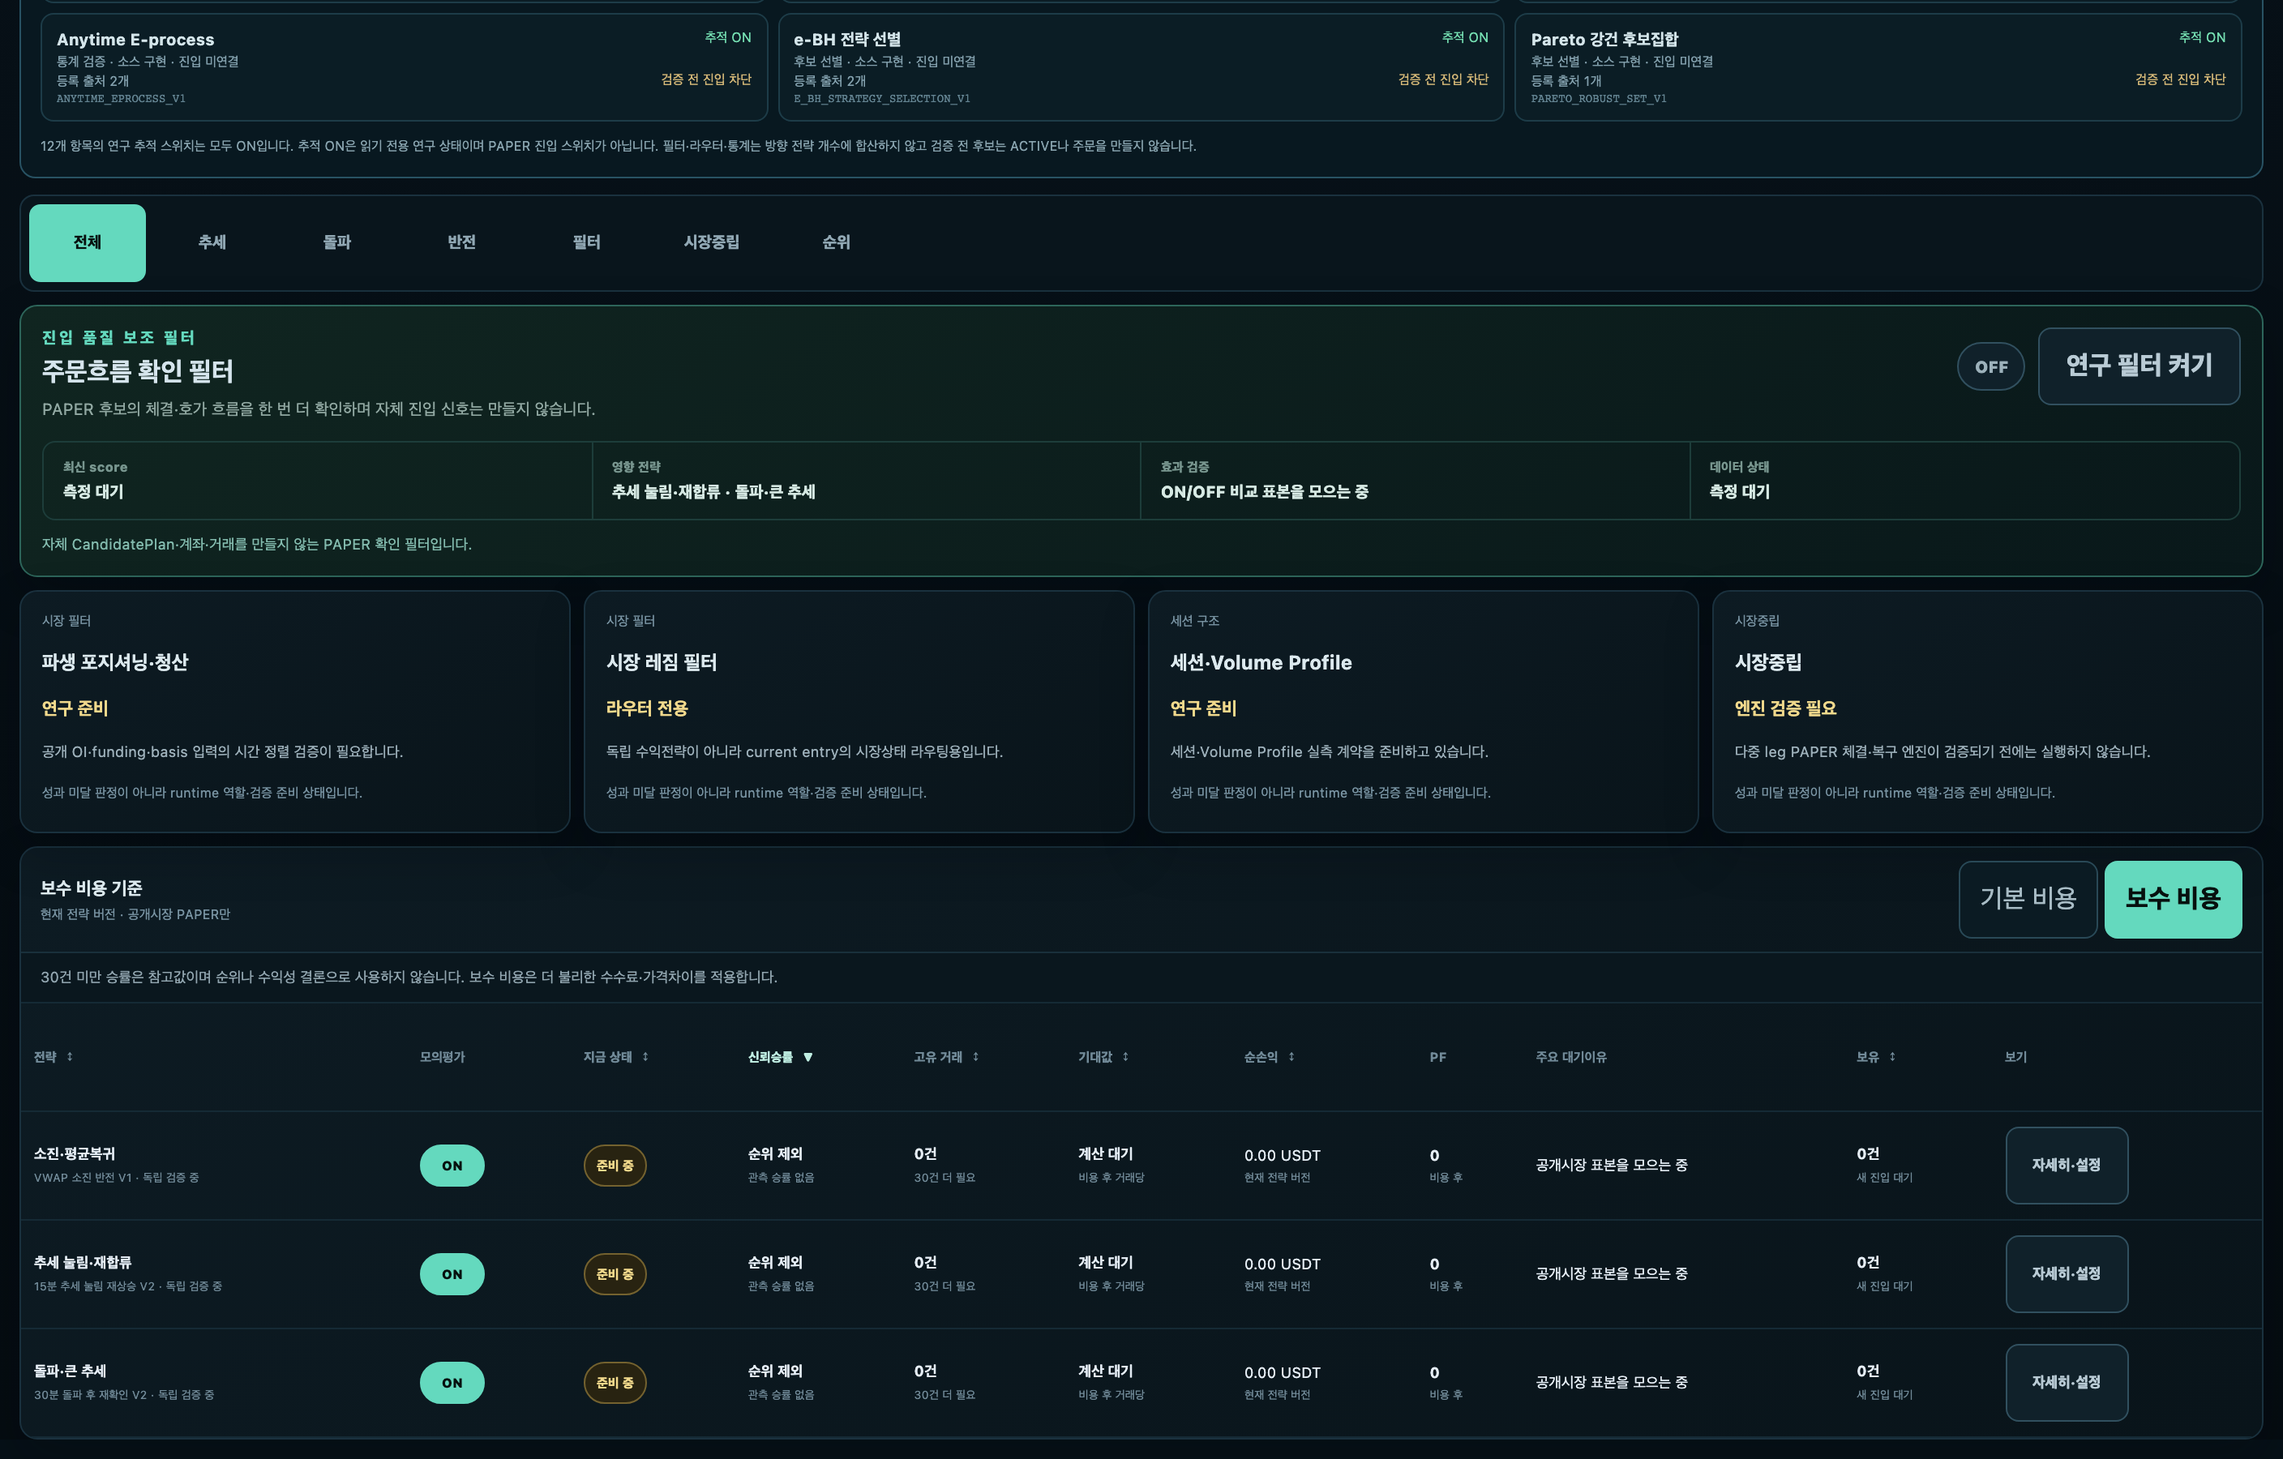
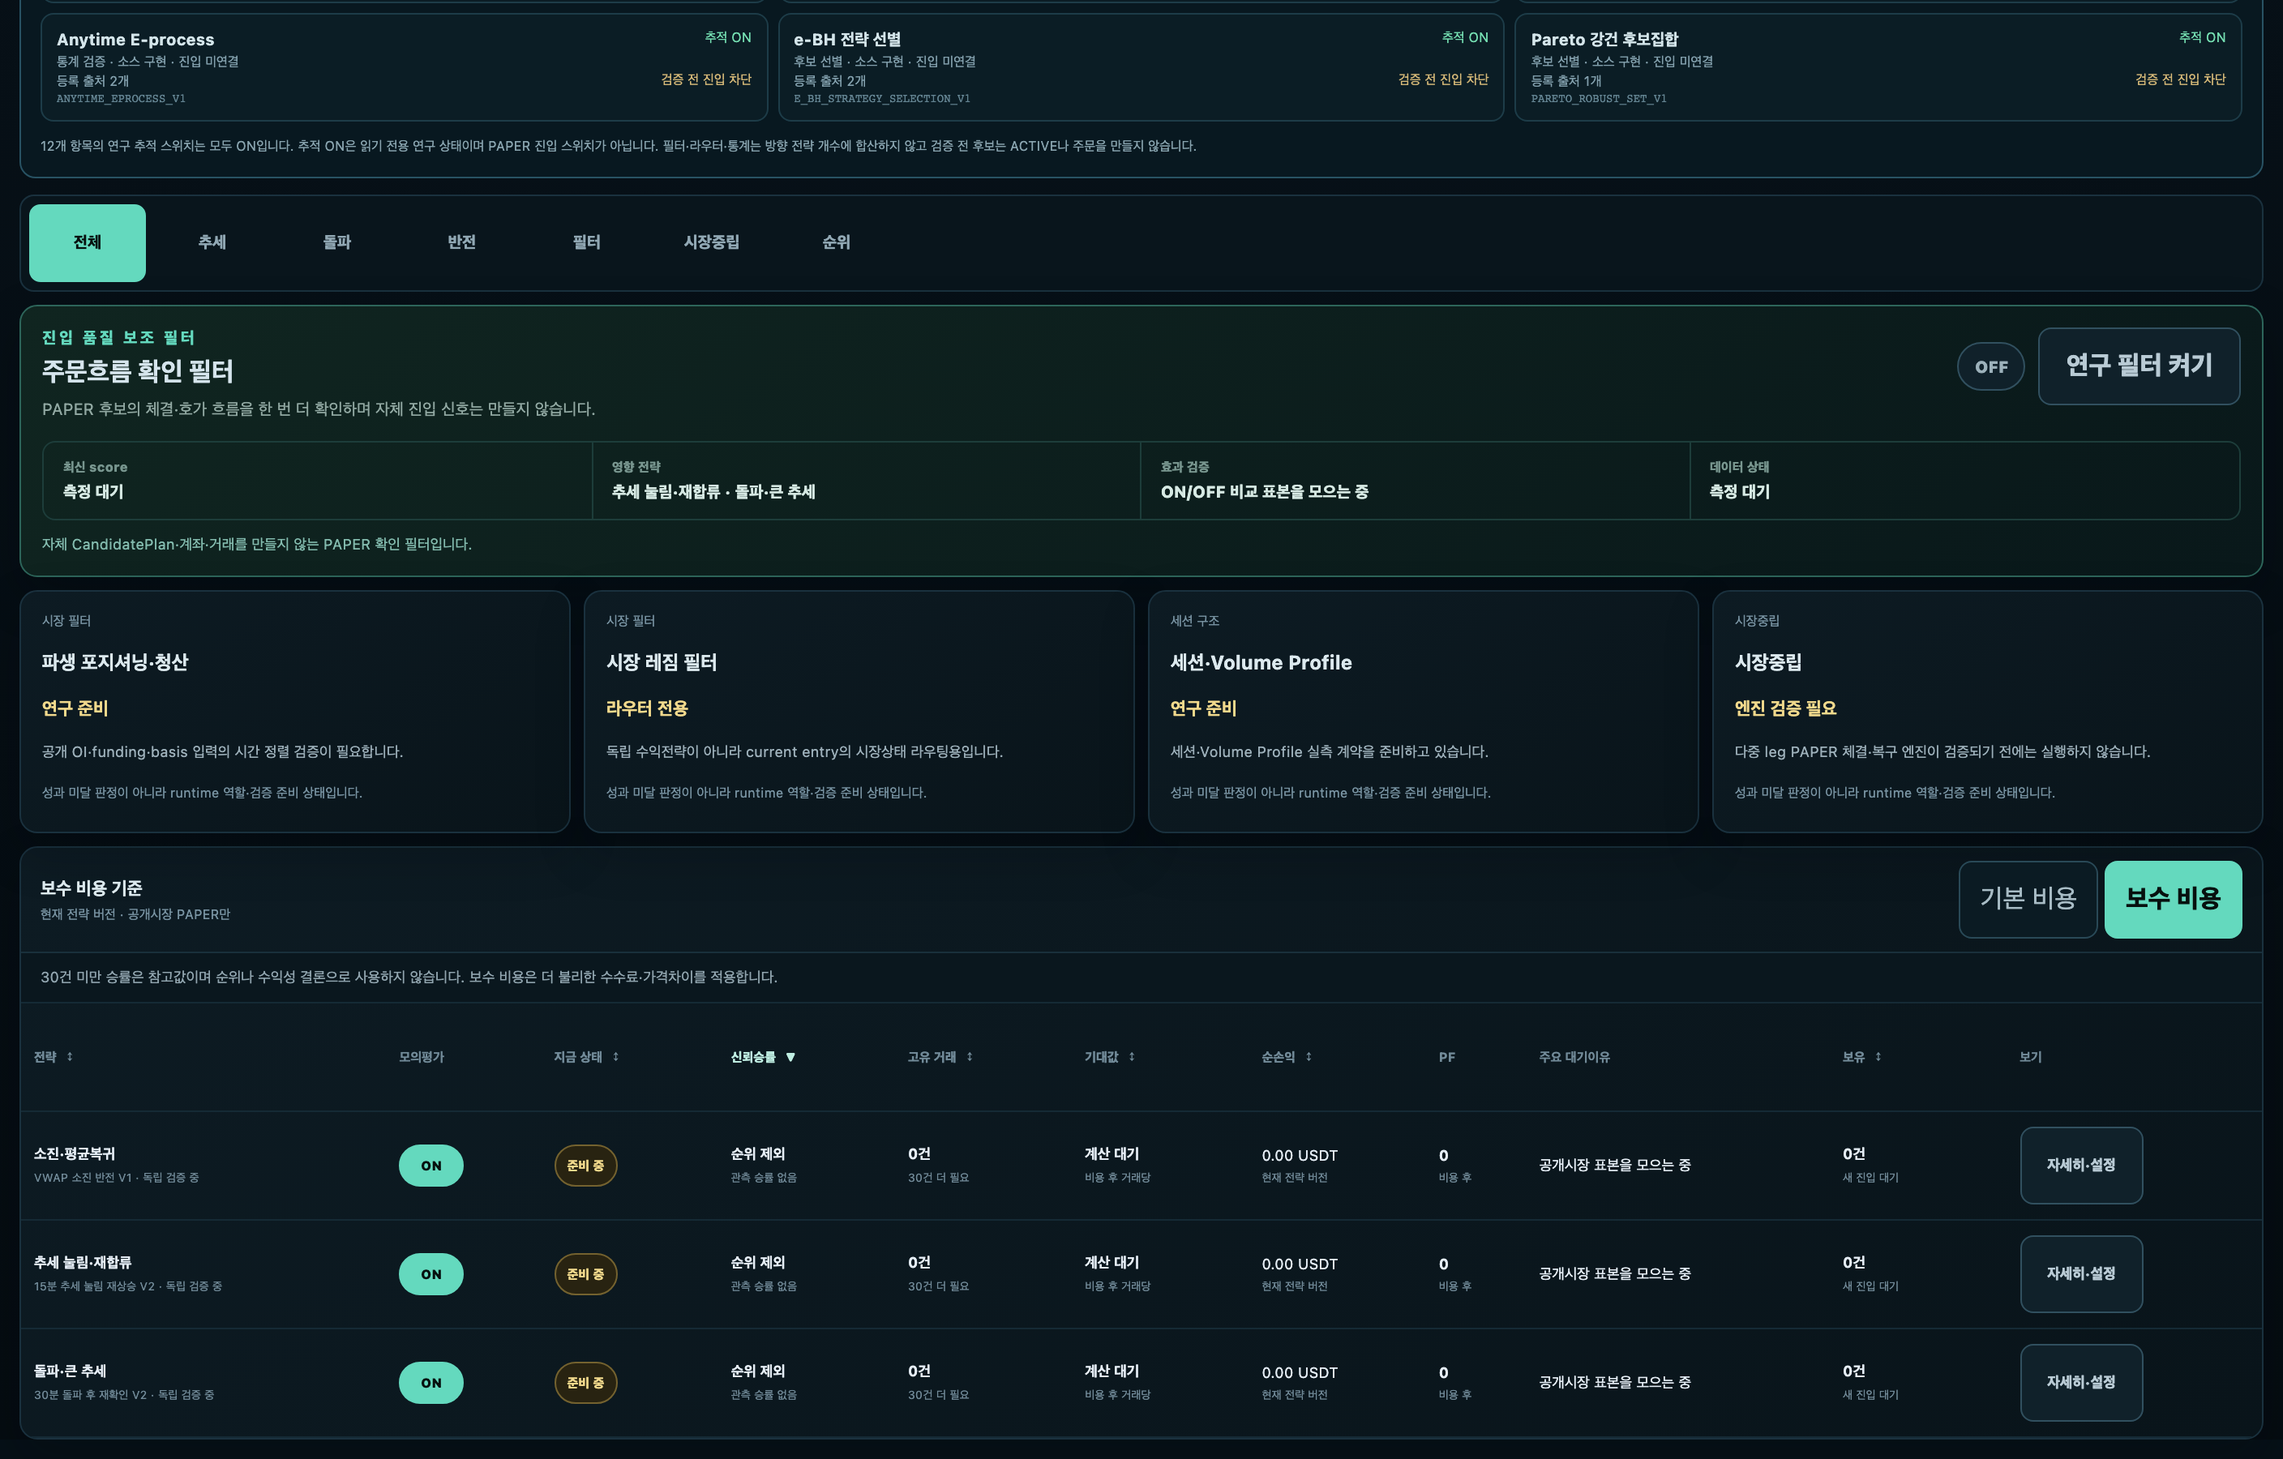
fix(ui): enforce accessible paper controls

diff --git a/ROBOM_FlowScalper_Codex_Package_20260822/frontend/src/styles.css b/ROBOM_FlowScalper_Codex_Package_20260822/frontend/src/styles.css
@@ -30,7 +30,7 @@ h3 { font-size: 14px; color: #d5e4ec; }
 .eyebrow, .section-kicker { margin: 0 0 5px; color: var(--mint); font-size: 10px; font-weight: 800; letter-spacing: .17em; }
 .fixture-note { display: inline-flex; min-height: 30px; align-items: center; border: 1px solid #355260; border-radius: 999px; padding: 5px 9px; font-size: 10px; font-weight: 800; letter-spacing: .035em; }
 .navigation { gap: 4px; overflow-x: auto; margin-bottom: 18px; padding: 5px; border: 1px solid var(--line); border-radius: 10px; background: #09151c; scrollbar-width: thin; }
-.nav-button, .primary-button, .secondary-button, .danger-button, .table-button { min-height: 48px; border-radius: 8px; padding: 0 16px; border: 1px solid transparent; color: #b9cbd5; background: transparent; cursor: pointer; font-weight: 750; white-space: nowrap; }
+.nav-button, .primary-button, .secondary-button, .danger-button, .table-button { min-width: 48px; min-height: 48px; border-radius: 8px; padding: 0 16px; border: 1px solid transparent; color: #b9cbd5; background: transparent; cursor: pointer; font-weight: 750; white-space: nowrap; }
 .nav-button:hover, .secondary-button:hover { background: #122631; }
 .nav-button.active { color: #081211; background: var(--mint); }
 .primary-button { color: #07110f; background: var(--mint); }
@@ -216,7 +216,7 @@ h3 { font-size: 14px; color: #d5e4ec; }
 .strategy-compact-table th { color: #718a98; font-size: 8px; }
 .strategy-compact-table td { font-size: 9px; }
 .strategy-compact-table small { display: block; margin-top: 4px; color: #718a98; font-size: 7px; }
-.strategy-sort-button { display: inline-flex; min-height: 48px; align-items: center; gap: 6px; border: 0; padding: 0; color: #718a98; background: transparent; cursor: pointer; font-size: 8px; font-weight: 800; }
+.strategy-sort-button { display: inline-flex; min-width: 48px; min-height: 48px; align-items: center; gap: 6px; border: 0; padding: 0; color: #718a98; background: transparent; cursor: pointer; font-size: 8px; font-weight: 800; }
 .strategy-sort-button:hover, .strategy-sort-button.active { color: #bfeee2; }
 .strategy-mobile-sort { display: none; }
 .strategy-monitor { display: inline-flex; min-height: 26px; align-items: center; border: 1px solid #347a6a; border-radius: 999px; padding: 3px 7px; color: #8fe6cf; background: #102d28; font-size: 8px; font-weight: 850; white-space: nowrap; }
@@ -499,7 +499,7 @@ h3 { font-size: 14px; color: #d5e4ec; }
 .market-toolbar span { color: #7893a2; font-size: 8px; }
 .market-toolbar label { display: flex; align-items: center; gap: 5px; color: #7893a2; font-size: 8px; }
 .market-toolbar select { min-width: 92px; height: 48px; border: 1px solid #31505f; border-radius: 6px; padding: 0 24px 0 8px; color: #d9e5eb; background: #0e2029; }
-.workspace-button { min-height: 48px; border: 1px solid #31505f; border-radius: 6px; padding: 0 10px; color: #b9cbd5; background: #10212a; cursor: pointer; font-size: 9px; font-weight: 750; white-space: nowrap; }
+.workspace-button { min-width: 48px; min-height: 48px; border: 1px solid #31505f; border-radius: 6px; padding: 0 10px; color: #b9cbd5; background: #10212a; cursor: pointer; font-size: 9px; font-weight: 750; white-space: nowrap; }
 .workspace-button.selected { color: #07110f; border-color: var(--mint); background: var(--mint); }
 .operation-status-card { display: grid; min-height: 52px; flex: 0 0 auto; grid-template-columns: minmax(280px, 1.2fr) minmax(430px, 1fr) auto; align-items: center; gap: 14px; border: 1px solid #2c7565; border-radius: 9px; padding: 3px 12px; background: #0b211f; box-shadow: inset 4px 0 #64d9be; }
 .operation-status-card.ready { border-color: #497185; background: #0b1b24; box-shadow: inset 4px 0 #69bff8; }
@@ -547,7 +547,7 @@ h3 { font-size: 14px; color: #d5e4ec; }
 .market-rail-head, .focus-rail-title { display: flex; min-height: 46px; align-items: center; justify-content: space-between; gap: 8px; padding: 8px 10px; border-bottom: 1px solid #19303b; }
 .market-rail-head strong { font-size: 12px; }
 .market-rail-head span { color: #718a98; font-size: 9px; }
-.market-rail-close { min-height: 48px; border: 1px solid #31505f; border-radius: 6px; padding: 0 9px; color: #b9cbd5; background: #10212a; cursor: pointer; font-size: 8px; }
+.market-rail-close { min-width: 48px; min-height: 48px; border: 1px solid #31505f; border-radius: 6px; padding: 0 9px; color: #b9cbd5; background: #10212a; cursor: pointer; font-size: 8px; }
 .venue-tabs { display: grid; grid-template-columns: 1fr 1fr; gap: 4px; padding: 6px; }
 .venue-tabs button { min-height: 48px; border: 1px solid #294957; border-radius: 6px; color: #8ea5b0; background: #0c1c24; cursor: pointer; font-size: 8px; }
 .venue-tabs button[aria-pressed="true"] { color: #07110f; border-color: var(--mint); background: var(--mint); font-weight: 800; }
@@ -594,18 +594,18 @@ h3 { font-size: 14px; color: #d5e4ec; }
 .replay-focus-page .page-heading.compact h2 { font-size: 14px; }
 .replay-focus-page .focus-stack { position: relative; }
 .focus-replay-controls { position: absolute; z-index: 12; right: 216px; bottom: 10px; left: 184px; display: flex; min-height: 42px; align-items: center; gap: 7px; overflow-x: auto; border: 1px solid #31505f; border-radius: 7px; padding: 4px 7px; color: #91a8b4; background: #071219e8; font-size: 8px; white-space: nowrap; box-shadow: 0 8px 24px #02070b99; }
-.focus-replay-controls button { min-height: 48px; padding: 0 10px; font-size: 8px; }
+.focus-replay-controls button { min-width: 48px; min-height: 48px; padding: 0 10px; font-size: 8px; }
 .focus-replay-controls label { display: flex; align-items: center; gap: 4px; }
-.focus-replay-controls select { min-height: 48px; border: 1px solid #31505f; border-radius: 6px; color: #d9e5eb; background: #0e2029; }
+.focus-replay-controls select { min-width: 48px; min-height: 48px; border: 1px solid #31505f; border-radius: 6px; color: #d9e5eb; background: #0e2029; }
 .focus-replay-range { min-width: 130px; flex: 1; }
 .focus-replay-range input { min-width: 80px; min-height: 48px; flex: 1; accent-color: var(--mint); }
 .focus-mode-label { color: #7893a2; font-size: 8px; }
 .focus-jumps { display: flex; gap: 3px; }
-.focus-jumps button { min-width: 38px; padding: 0 6px; border: 1px solid #31505f; border-radius: 5px; color: #d9e5eb; background: #0e2029; }
+.focus-jumps button { min-width: 48px; padding: 0 6px; border: 1px solid #31505f; border-radius: 5px; color: #d9e5eb; background: #0e2029; }
 .focus-timeline { position: relative; flex: 0 0 auto; }
 .focus-timeline summary { min-height: 48px; padding: 8px; cursor: pointer; }
 .focus-timeline[open] ol { position: absolute; right: 0; bottom: 38px; width: 210px; max-height: 240px; overflow: auto; margin: 0; border: 1px solid #31505f; border-radius: 7px; padding: 6px; list-style: none; background: #071219; box-shadow: 0 12px 28px #000b; }
-.focus-timeline li button { width: 100%; text-align: left; }
+.focus-timeline li button { width: 100%; min-width: 48px; text-align: left; }
 .fast-forward { color: #f1c96d !important; }
 .focus-mobile-metrics, .focus-sheet-buttons { display: none; }
 .focus-detail-layer { display: none; }
@@ -676,7 +676,7 @@ h3 { font-size: 14px; color: #d5e4ec; }
   .market-grid .market-rail, .focus-plan, .focus-pnl { display: none; }
   .focus-mobile-metrics { display: flex; min-height: 34px; align-items: center; justify-content: space-around; gap: 8px; border: 1px solid var(--line); border-radius: 7px; color: #91a8b4; background: #09151c; font-size: 9px; }
   .focus-sheet-buttons { display: flex; position: absolute; z-index: 11; right: 14px; top: 42px; gap: 4px; }
-  .focus-sheet-buttons button, .focus-sheet-close { min-height: 48px; border: 1px solid #31505f; border-radius: 7px; color: #d9e5eb; background: #0e2029; }
+  .focus-sheet-buttons button, .focus-sheet-close { min-width: 48px; min-height: 48px; border: 1px solid #31505f; border-radius: 7px; color: #d9e5eb; background: #0e2029; }
   .focus-detail-layer { position: fixed; z-index: 80; inset: 0; display: flex; align-items: stretch; justify-content: flex-end; }
   .focus-detail-layer > .focus-plan, .focus-detail-layer > .focus-pnl { position: relative; z-index: 2; display: block; width: min(82vw, 320px); height: 100%; overflow-y: auto; border-radius: 0; }
   .focus-sheet-close { position: fixed; z-index: 3; right: 10px; bottom: 10px; min-width: 72px; }

diff --git a/ROBOM_FlowScalper_Codex_Package_20260822/frontend/e2e/dashboard.spec.ts b/ROBOM_FlowScalper_Codex_Package_20260822/frontend/e2e/dashboard.spec.ts
@@ -13,8 +13,9 @@ function roundedMs(value: number) {
 type InteractiveTargetAudit = {
   stage: string
   measured_count: number
+  minimum_width_px: number | null
   minimum_height_px: number | null
-  violations: Array<{ tag: string; name: string; class_name: string; height_px: number }>
+  violations: Array<{ tag: string; name: string; class_name: string; width_px: number; height_px: number }>
 }
 
 async function auditVisibleInteractiveTargets(page: Page, stage: string): Promise<InteractiveTargetAudit> {
@@ -43,13 +44,15 @@ async function auditVisibleInteractiveTargets(page: Page, stage: string): Promis
             || element.id
             || '이름 없음',
           class_name: element.className || '',
+          width_px: Math.round(rect.width * 1_000) / 1_000,
           height_px: Math.round(rect.height * 1_000) / 1_000,
         }
       })
     return {
       measured_count: rows.length,
+      minimum_width_px: rows.length ? Math.min(...rows.map((row) => row.width_px)) : null,
       minimum_height_px: rows.length ? Math.min(...rows.map((row) => row.height_px)) : null,
-      violations: rows.filter((row) => row.height_px < 48),
+      violations: rows.filter((row) => row.width_px < 48 || row.height_px < 48),
     }
   })
   return { stage, ...measurement }
@@ -429,6 +432,9 @@ test('시장 중심 PAPER 화면이 데스크톱·태블릿·모바일에서 안
   const minimumInteractiveHeight = Math.min(
     ...interactiveTargetAudits.flatMap((audit) => audit.minimum_height_px === null ? [] : [audit.minimum_height_px]),
   )
+  const minimumInteractiveWidth = Math.min(
+    ...interactiveTargetAudits.flatMap((audit) => audit.minimum_width_px === null ? [] : [audit.minimum_width_px]),
+  )
   recordBrowserEvidence(testInfo.project.name, {
     status: interactiveViolations.length === 0 ? 'PASS' : 'FAIL',
     viewport_css_px: initialViewport,
@@ -446,6 +452,7 @@ test('시장 중심 PAPER 화면이 데스크톱·태블릿·모바일에서 안
       status_meaning_available_as_text_without_color: colorIndependentStatusText,
       interactive_target_selectors: 'button,input,select,summary,a[href]',
       hidden_disabled_and_aria_disabled_excluded: true,
+      minimum_measured_interactive_width_px: Number.isFinite(minimumInteractiveWidth) ? minimumInteractiveWidth : null,
       minimum_measured_interactive_height_px: Number.isFinite(minimumInteractiveHeight) ? minimumInteractiveHeight : null,
       interactive_target_48px_pass: interactiveViolations.length === 0,
       interactive_target_audits: interactiveTargetAudits,
@@ -455,7 +462,7 @@ test('시장 중심 PAPER 화면이 데스크톱·태블릿·모바일에서 안
     zoom_200_percent: zoom200Reflow,
     console_error_count: errors.length,
   })
-  expect(interactiveViolations, 'visible interactive target은 모두 최소 48px이어야 합니다.').toEqual([])
+  expect(interactiveViolations, 'visible interactive target은 가로·세로 모두 최소 48px이어야 합니다.').toEqual([])
 })
 
 test('격리 fixture에서 PAPER 100배·10배 설정과 전략 OFF·복원을 되돌릴 수 있다', async ({ page }, testInfo) => {

diff --git a/ROBOM_FlowScalper_Codex_Package_20260822/frontend/e2e/audit-8870.spec.ts b/ROBOM_FlowScalper_Codex_Package_20260822/frontend/e2e/audit-8870.spec.ts
@@ -269,3 +269,41 @@ test('audit:paper_safety_visible', async ({ page }, testInfo) => {
   expect(system.release_commit).toMatch(/^[0-9a-f]{40}$/)
   await captureAudit(page, testInfo, 'paper_safety_visible', auditPage)
 })
+
+test('audit:continuous_entry_and_leverage_visible', async ({ page }, testInfo) => {
+  const auditPage = await openAuditPage(page)
+  await expect(page.getByText('자동 진입 · 항상 허용')).toBeVisible()
+  await expect(page.getByRole('button', { name: '새 진입 잠시 멈추기' })).toHaveCount(0)
+  await openPageByName(page, '설정')
+  const leverage = page.getByRole('combobox', { name: 'PAPER 레버리지' })
+  await expect(leverage).toHaveValue('10')
+  await expect(leverage.locator('option[value="100"]')).toHaveText('100배')
+  const configuration = await page.evaluate(async () => {
+    const response = await fetch('/api/dashboard')
+    if (!response.ok) throw new Error(`dashboard HTTP ${response.status}`)
+    const dashboard = await response.json() as Record<string, unknown>
+    return dashboard.paper_research_configuration as Record<string, unknown>
+  })
+  expect({
+    selected_leverage: configuration.selected_leverage,
+    maximum_available_leverage: configuration.maximum_available_leverage,
+    continuous_entry_mode: configuration.continuous_entry_mode,
+    daily_trade_limit_enabled: configuration.daily_trade_limit_enabled,
+    daily_loss_lock_enabled: configuration.daily_loss_lock_enabled,
+    weekly_loss_lock_enabled: configuration.weekly_loss_lock_enabled,
+    loss_cooldown_enabled: configuration.loss_cooldown_enabled,
+    paper_only: configuration.paper_only,
+    real_orders_enabled: configuration.real_orders_enabled,
+  }).toEqual({
+    selected_leverage: 10,
+    maximum_available_leverage: 100,
+    continuous_entry_mode: true,
+    daily_trade_limit_enabled: false,
+    daily_loss_lock_enabled: false,
+    weekly_loss_lock_enabled: false,
+    loss_cooldown_enabled: false,
+    paper_only: true,
+    real_orders_enabled: false,
+  })
+  await captureAudit(page, testInfo, 'continuous_entry_and_leverage_visible', auditPage)
+})

diff --git a/ROBOM_FlowScalper_Codex_Package_20260822/frontend/playwright.audit.config.ts b/ROBOM_FlowScalper_Codex_Package_20260822/frontend/playwright.audit.config.ts
@@ -10,6 +10,7 @@ const commonChecks = [
   'horizontal_overflow_zero',
   'console_errors_zero',
   'paper_safety_visible',
+  'continuous_entry_and_leverage_visible',
 ]
 
 function auditGrep(checks: string[]) {
